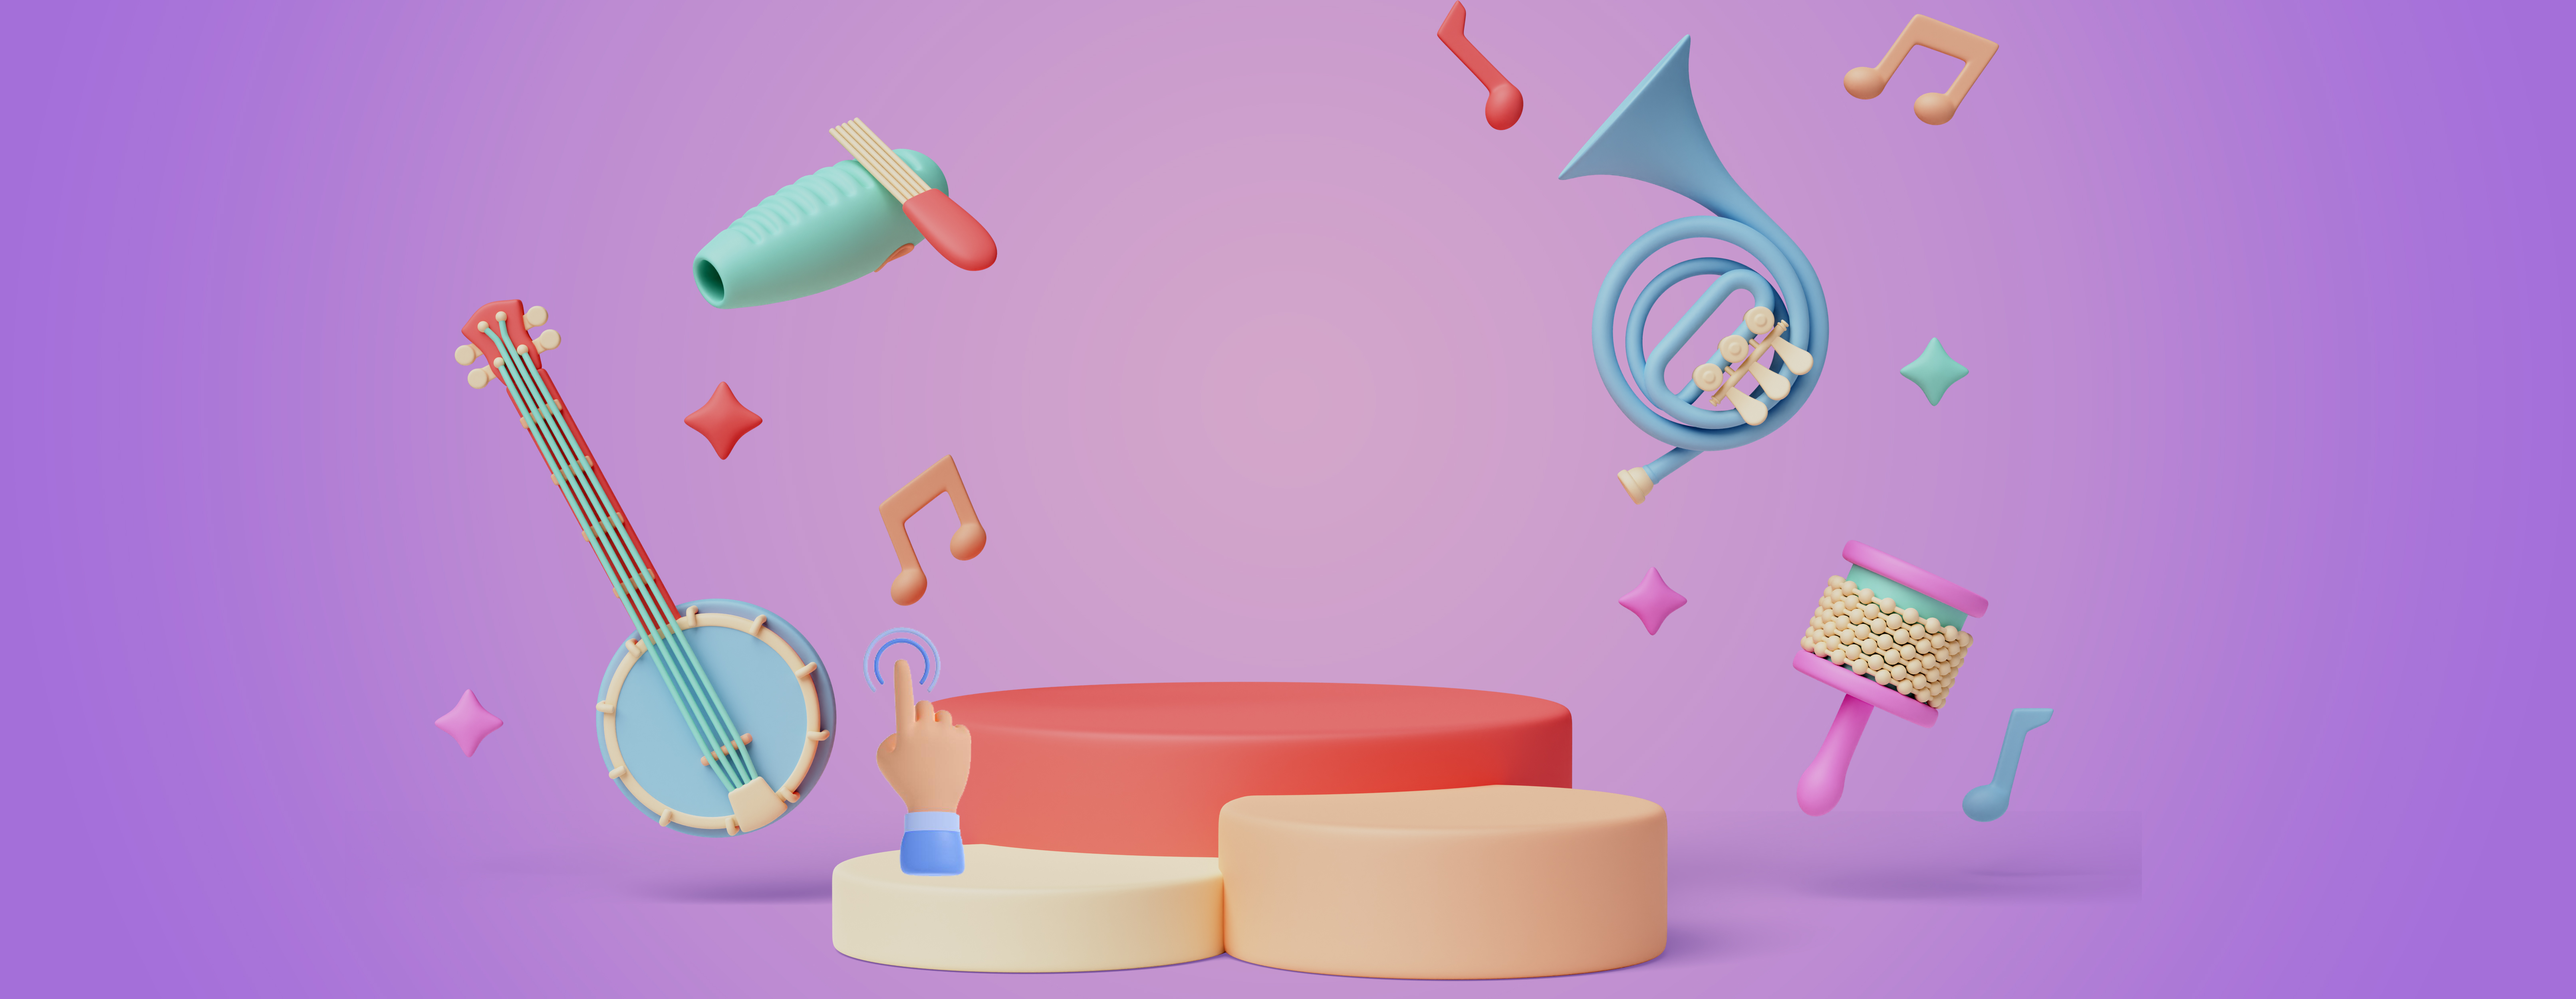
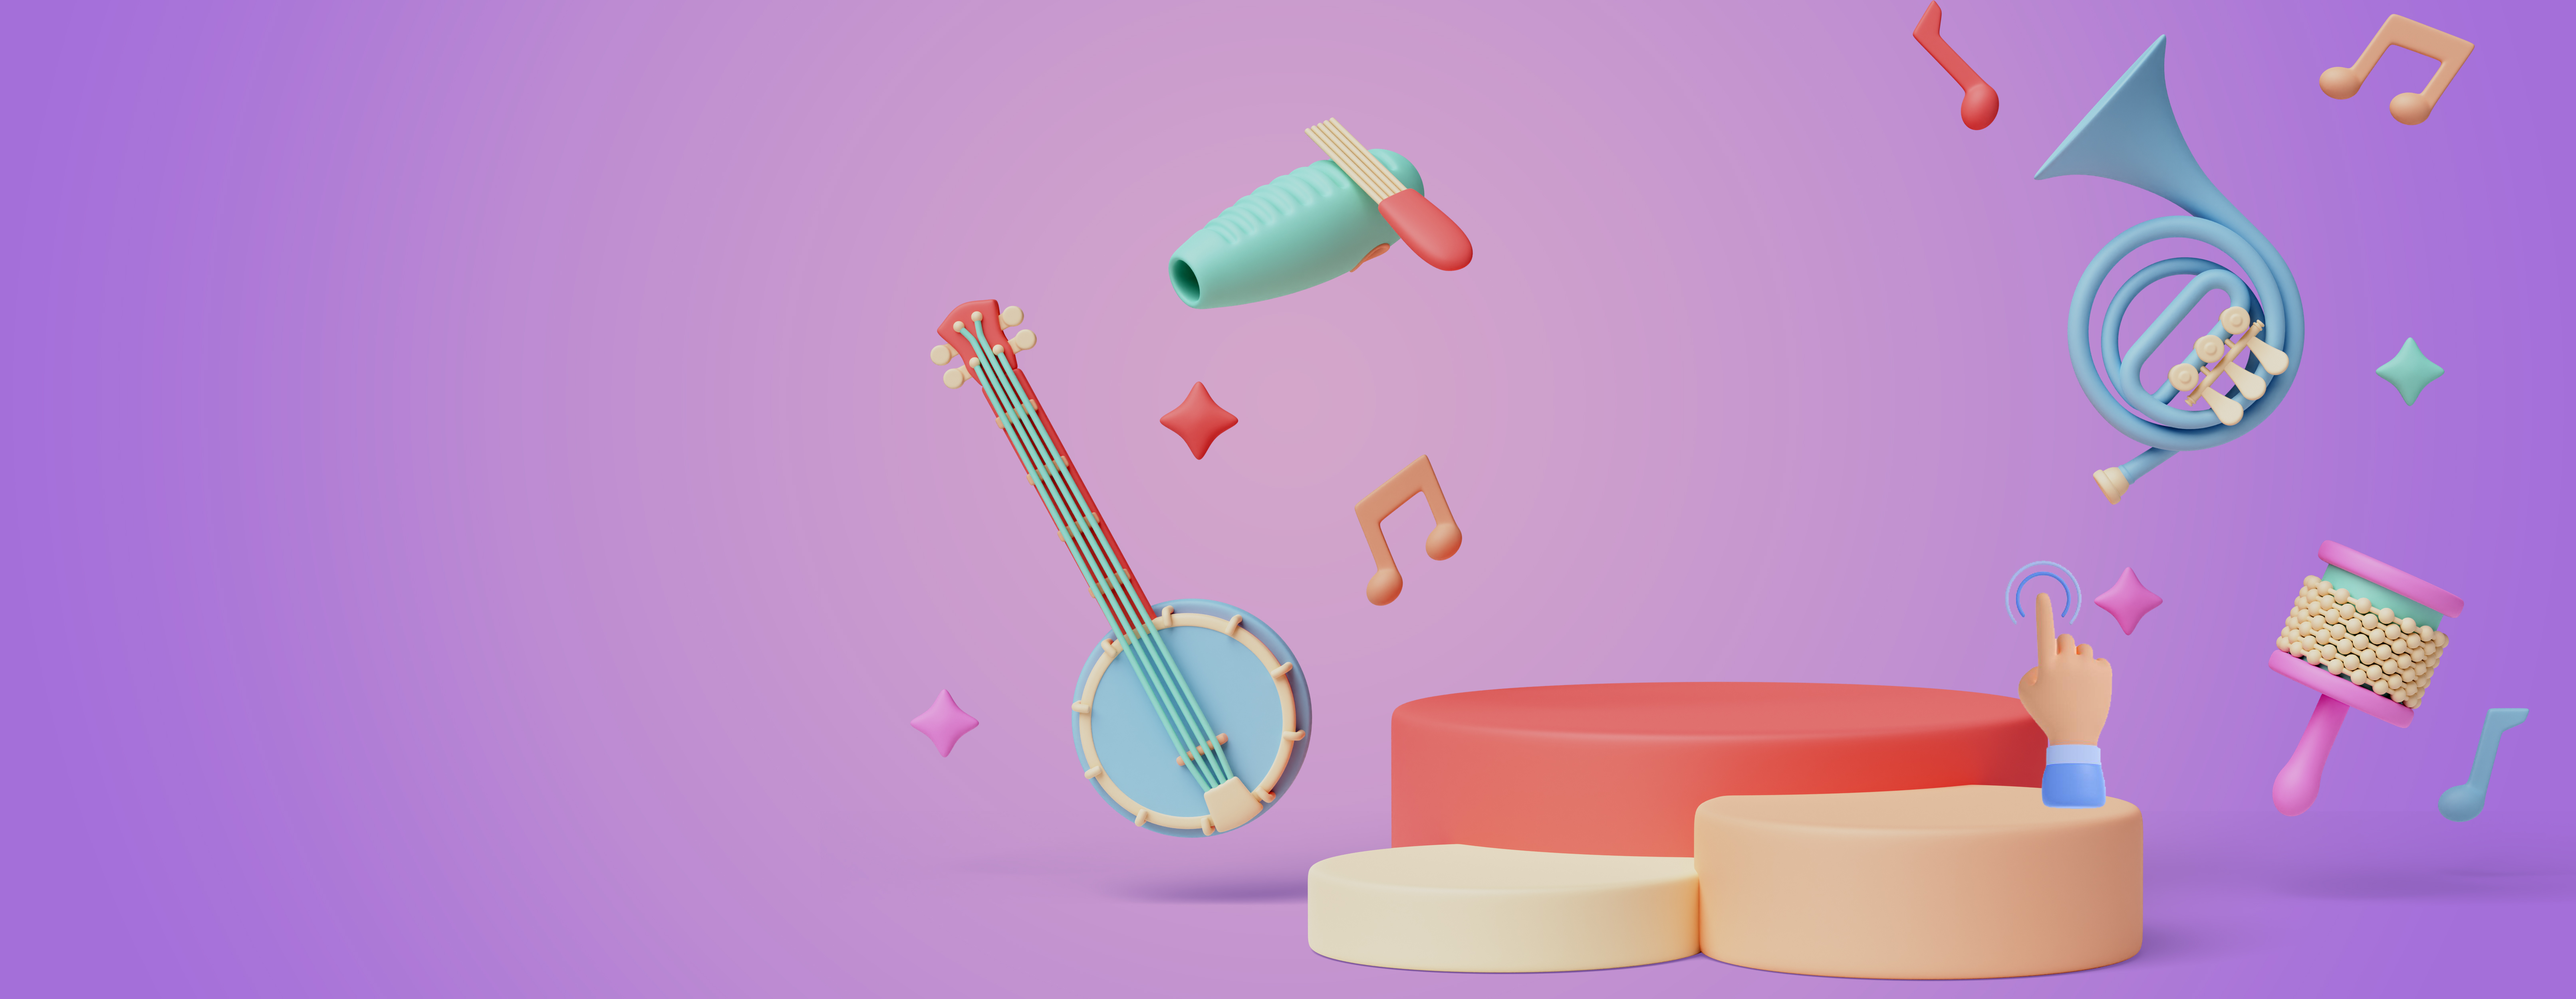
cardsEnElHome

diff --git a/resources/sass/_3d.scss b/resources/sass/_3d.scss
@@ -1,7 +1,7 @@
 div#container3D{
     position: absolute;
-    bottom: 16%;
-    left: 35%;
+    bottom: 14%;
+    left: 56%;
     width: 350px;
     height: 350px;
     cursor: pointer;
@@ -26,4 +26,29 @@ div#container3D{
 }
 .touch>img{
     width: 100%;
+}
+.cardbanner {
+    position: absolute;
+    top: 38%;
+    left: 4%;
+    background-color: transparent;
+    border: none;
+    color: white;
+}
+.card-body{
+    display: flex;
+    flex-direction: column;
+    justify-content: center;
+    align-items: center;
+}
+a.btn.btn-dark {
+    width: 70%;
+    background-color: #C191CF;
+    border: solid 0.5px rgba(255, 255, 255, 0.178);
+    transition: width 0.3s; /* Transición suave de la animación */
+}
+.btn.btn-dark:hover {
+    width: 90%; /* Ancho aumentado al pasar el mouse por encima */
+    background-color: #C191CF;
+    border: solid 0.5px rgba(255, 255, 255, 0.178);
 }

diff --git a/resources/sass/_generales.scss b/resources/sass/_generales.scss
@@ -1,3 +1,13 @@
 .title{
     margin-top: 10px;
 }
+body{
+    overflow-x: hidden;
+}
+.grow-on-hover {
+    transition: transform 0.3s ease;
+}
+
+.grow-on-hover:hover {
+    transform: scale(1.02);
+}

diff --git a/resources/js/3d.js b/resources/js/3d.js
@@ -31,6 +31,7 @@ loader.load('/three/car.glb', function(gltf) {
     scene.add(ambientLight);
 
 
+
     model.position.y = -1;
     scene.add(model);
 }, undefined, function(error) {

diff --git a/resources/views/page/index.blade.php b/resources/views/page/index.blade.php
@@ -25,12 +25,26 @@
 @include('components.headerPage')
 
 {{-- SLIDER --}}
+<div class="rox">
+
+    <div class="row">
+        <div class="col-12 px-0">
+            <img class="img-fluid w-100" src="{{ asset('img/1.jpg') }}" alt="...">
+            <div id="container3D">
+            </div>
+            <div class="card w-40 cardbanner">
+                <div class="card-body">
+                  <h5 class="card-title">BIENVENIDO A HAPPY KIDS COLOMBIA</h5>
+                  <p class="card-text">"La magia de la infancia está en tus manos."</p>
+                  <a href="#" class="btn btn-dark">donar un juguete</a>
+                </div>
+              </div>
+        </div>
+    </div>
+</div>
 <div class="container">
     <div class="row">
         <div class="rox">
-            <img class="img-fluid bannerp" src="{{ asset('img/1.jpg') }}" alt="...">
-            <div id="container3D">
-            </div>
         </div>
         {{-- Carrousel para usar --}}
         {{-- <div id="carouselExampleControls" class="carousel slide" data-bs-ride="carousel" data-bs-interval="3000" data-bs-wrap="true">
@@ -54,23 +68,50 @@
                 <span class="visually-hidden">Next</span>
             </button>
         </div> --}}
+        {{-- Carrousel para usar end --}}
 
     </div>
     <div class="row">
-        <h1 class="title">Bienvenido a happy kids colombia.</h1>
-        <p>
-            ¡Bienvenido a nuestra plataforma de donaciones de juguetes! Aquí, encontrarás una forma fácil y segura de hacer una diferencia en la vida de niños necesitados. Únete a nosotros en nuestro esfuerzo por llevar alegría y esperanza a aquellos que más lo necesitan. ¡Haz tu donación hoy y sé parte del cambio!
-        </p>
+        <div class="row row-cols-1 row-cols-md-2 g-4">
+            <div class="col">
+              <div class="card grow-on-hover">
+                <img src="{{ asset('img/card1.jpg') }}" class="card-img-top" alt="...">
+                <div class="card-body">
+                  <h5 class="card-title">Cambia una Vida</h5>
+                  <p class="card-text">Tu donación tiene un impacto directo en la vida de un niño. Con tu contribución, proporcionas alegría, esperanza y oportunidades para un futuro mejor.</p>
+                </div>
+              </div>
+            </div>
+            <div class="col">
+              <div class="card grow-on-hover">
+                <img src="{{ asset('img/card2.jpg') }}" class="card-img-top" alt="...">
+                <div class="card-body">
+                  <h5 class="card-title">Forma Parte de Nuestra Comunidad</h5>
+                  <p class="card-text">Al donar, te unes a una comunidad solidaria comprometida con el bienestar de los demás. Juntos, hacemos posible que más niños tengan acceso a juguetes y experiencias positivas.</p>
+                </div>
+              </div>
+            </div>
+            <div class="col">
+              <div class="card grow-on-hover">
+                <img src="{{ asset('img/card3.jpg') }}" class="card-img-top" alt="...">
+                <div class="card-body">
+                  <h5 class="card-title">Reduce, Reutiliza, Recicla</h5>
+                  <p class="card-text">Donar juguetes usados promueve la sostenibilidad ambiental al reducir residuos y fomentar la reutilización. Contribuyes a cuidar el planeta al dar una segunda vida a objetos que de otro modo podrían terminar en un vertedero.</p>
+                </div>
+              </div>
+            </div>
+            <div class="col">
+              <div class="card grow-on-hover">
+                <img src="{{ asset('img/card4.jpg') }}" class="card-img-top" alt="...">
+                <div class="card-body">
+                  <h5 class="card-title">Recompensa por tu Generosidad</h5>
+                  <p class="card-text">Al donar 10 juguetes, recibes un cupón de descuento exclusivo como agradecimiento por tu generosidad. Disfruta de descuentos como una forma de reconocimiento por tu contribución a nuestra causa solidaria.</p>
+                </div>
+              </div>
+            </div>
+        </div>
     </div>
 </div>
-{{-- END SLIDER --}}
-
-{{-- Aquí debe ir el objeto 3D --}}
-
-
-{{-- Aquí termina el objeto 3D --}}
-
-
 
 </body>
 </html>
